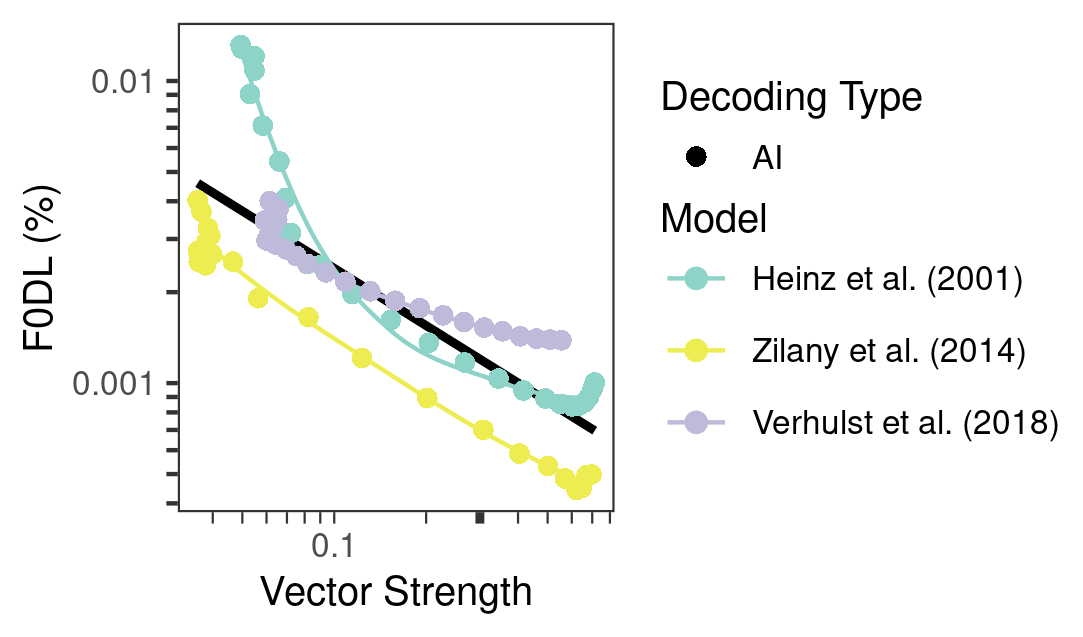
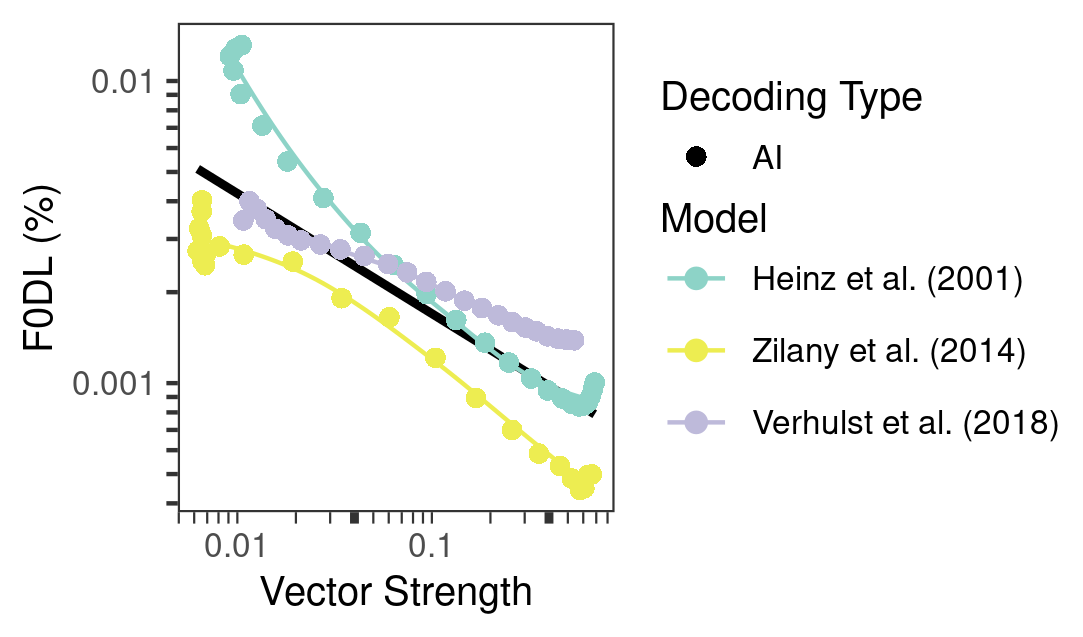
Slightly updated vector strength curves

diff --git a/nofigure/vector_strength_curves/vector_strength_curves.py b/nofigure/vector_strength_curves/vector_strength_curves.py
@@ -12,7 +12,7 @@ from functions import adjust_level
 
 
 # Define function to estimate vector strength
-def estimate_vector_strength(freqs, fs, model, model_name, n_rep, n_stim_rep):
+def estimate_vector_strength(freqs, fs, model, model_name, n_rep, n_stim_rep, dur=2):
     """
     Calculates the firing rate of an auditory nerve for a pure tone at a range of freqs (with the CF matched to the
     freq) and then estimates vector strength for those responses. Spike trains are generated from the firing rates
@@ -26,6 +26,7 @@ def estimate_vector_strength(freqs, fs, model, model_name, n_rep, n_stim_rep):
         n_rep (int): number of repeated spike trains to generate for each firing rate waveform
         n_stim_rep (int): number of firing rate waveforms to stitch together... allows us to cheat out a "long" stimulus
             without actually simulating the full response
+        dur (float): duration of the sinusoidal input stimulus, in seconds
 
     Returns:
         output (ndarray): array of mean firing rates of shape (n_freq, n_level)
@@ -36,12 +37,10 @@ def estimate_vector_strength(freqs, fs, model, model_name, n_rep, n_stim_rep):
             # Calculate firing rate
             rates = runfunc(params)  # output is expected to be (1, n_sample)
 
-            # Repeat the rate waveform n_stim_rep number of times
-            rates = np.tile(rates, (n_stim_rep, ))
-
-            # Calculate spike times
-            spike_times = [calculate_spike_times(simulate_poisson_spike_train(rates.T, fs), fs) for rep in
-                           range(params['n_rep'])]
+            # Calculate n_stim_rep spike trains and concatenate them (as if we had presented the stimulus n_stim_rep
+            # times and then calculated peri-stimulus spike times for each), then do this n_rep times and store in a
+            # list
+            spike_times = [np.concatenate([calculate_spike_times(simulate_poisson_spike_train(rates.T, fs), fs) for rep in range(n_stim_rep)]) for rep in range(n_rep)]
 
             # Calculate vector strength for each spike train
             vector_strengths = list(map(lambda x: calculate_vector_strength(x, params['freq']), spike_times))
@@ -61,7 +60,7 @@ def estimate_vector_strength(freqs, fs, model, model_name, n_rep, n_stim_rep):
         return inner
 
     # Encode fixed stimulus params in dict
-    params = si.Parameters(dur=2, dur_ramp=0.020, level=20, phase=0, fs=fs)  # encode fixed params
+    params = si.Parameters(dur=dur, dur_ramp=0.020, level=20, phase=0, fs=fs)  # encode fixed params
     params.wiggle_parallel(['freq', 'cf_low', 'cf_high'], [freqs, freqs, freqs])  # wiggle freqs and cfs
 
     # Add model params to dict
@@ -80,7 +79,7 @@ def estimate_vector_strength(freqs, fs, model, model_name, n_rep, n_stim_rep):
     sim = model()
     if model_name == 'Verhulst2018':
         # If we're using Verhulst model, we should only run one thread as we don't have enough RAM to run default 8
-        results = sim.run(params, runfunc=vector_strength_wrapper(sim.simulate), n_thread=1)
+        results = sim.run(params, runfunc=vector_strength_wrapper(sim.simulate))
     else:
         results = sim.run(params, runfunc=vector_strength_wrapper(sim.simulate))
 
@@ -91,7 +90,7 @@ def estimate_vector_strength(freqs, fs, model, model_name, n_rep, n_stim_rep):
 # Define parameters
 fs = int(100e3)  # sampling rate in Hz
 n_rep = 50
-n_stim_rep = 20
+n_stim_rep = 150
 freqs = 10**np.linspace(np.log10(200), np.log10(20000), 25)  # CFs for which we will measure vector strength curves
 
 # Save cfs, levels, and freqs to disk
@@ -101,7 +100,7 @@ np.save(os.path.join(cfg.root_directory, 'nofigure/vector_strength_curves/freqs.
 for model, model_name in zip([anf.AuditoryNerveHeinz2001Numba, anf.AuditoryNerveZilany2014, anf.AuditoryNerveVerhulst2018],
                              ['Heinz2001', 'Zilany2014', 'Verhulst2018']):
     # Compute frequency-level profile for each cf
-    vector_strength_curve = estimate_vector_strength(freqs, fs, model, model_name, n_rep, n_stim_rep)
+    vector_strength_curve = estimate_vector_strength(freqs, fs, model, model_name, n_rep, n_stim_rep, dur=0.35)
     # Save vector strengths to disk
     np.save(os.path.join(cfg.root_directory, 'nofigure/vector_strength_curves/', model_name + '.npy'),
             vector_strength_curve)

diff --git a/supplemental_figure_1/figure7a.py b/supplemental_figure_1/figure7a.py
@@ -50,7 +50,7 @@ for model_name in ['Heinz2001', 'Zilany2014', 'Verhulst2018']:
     plt.xlabel('CF (Hz)')
     plt.ylabel('Vector Strength')
     plt.yscale('log')
-    plt.ylim((0.08, 1))
+    plt.ylim((0.01, 1))
     plt.legend(['Heinz et al. (2001)', 'Zilany et al. (2014)', 'Verhulst et al. (2018)'])
 # Plot reference animal data
 ref_freqs = 10**np.linspace(np.log10(250), np.log10(16000), 1000)

diff --git a/README.md b/README.md
@@ -96,6 +96,7 @@ R is required to generate all the behavioral and modeling figures. The paper fig
 - `effects` - 4.2-0
 - `car` - 3.0-10
 - `lmerTest` - 3.1-3
+- `RcppCNPy` - 0.2.10
 
 Once your R  is configured successfully, set your working directory to your local copy of this repository. Now, you can run any of the plotting scripts (e.g., `figure1.R`) Some of these scripts depend on the output of the Python scripts. However, every required output has been pre-generated and included in this repository. These outputs are precisely those used to generate the figures in the manuscript. As a result, all the R scripts should correctly generate the paper figures even if you don't have a Python interpreter installed, or you have not yet run the Python scripts.
 
